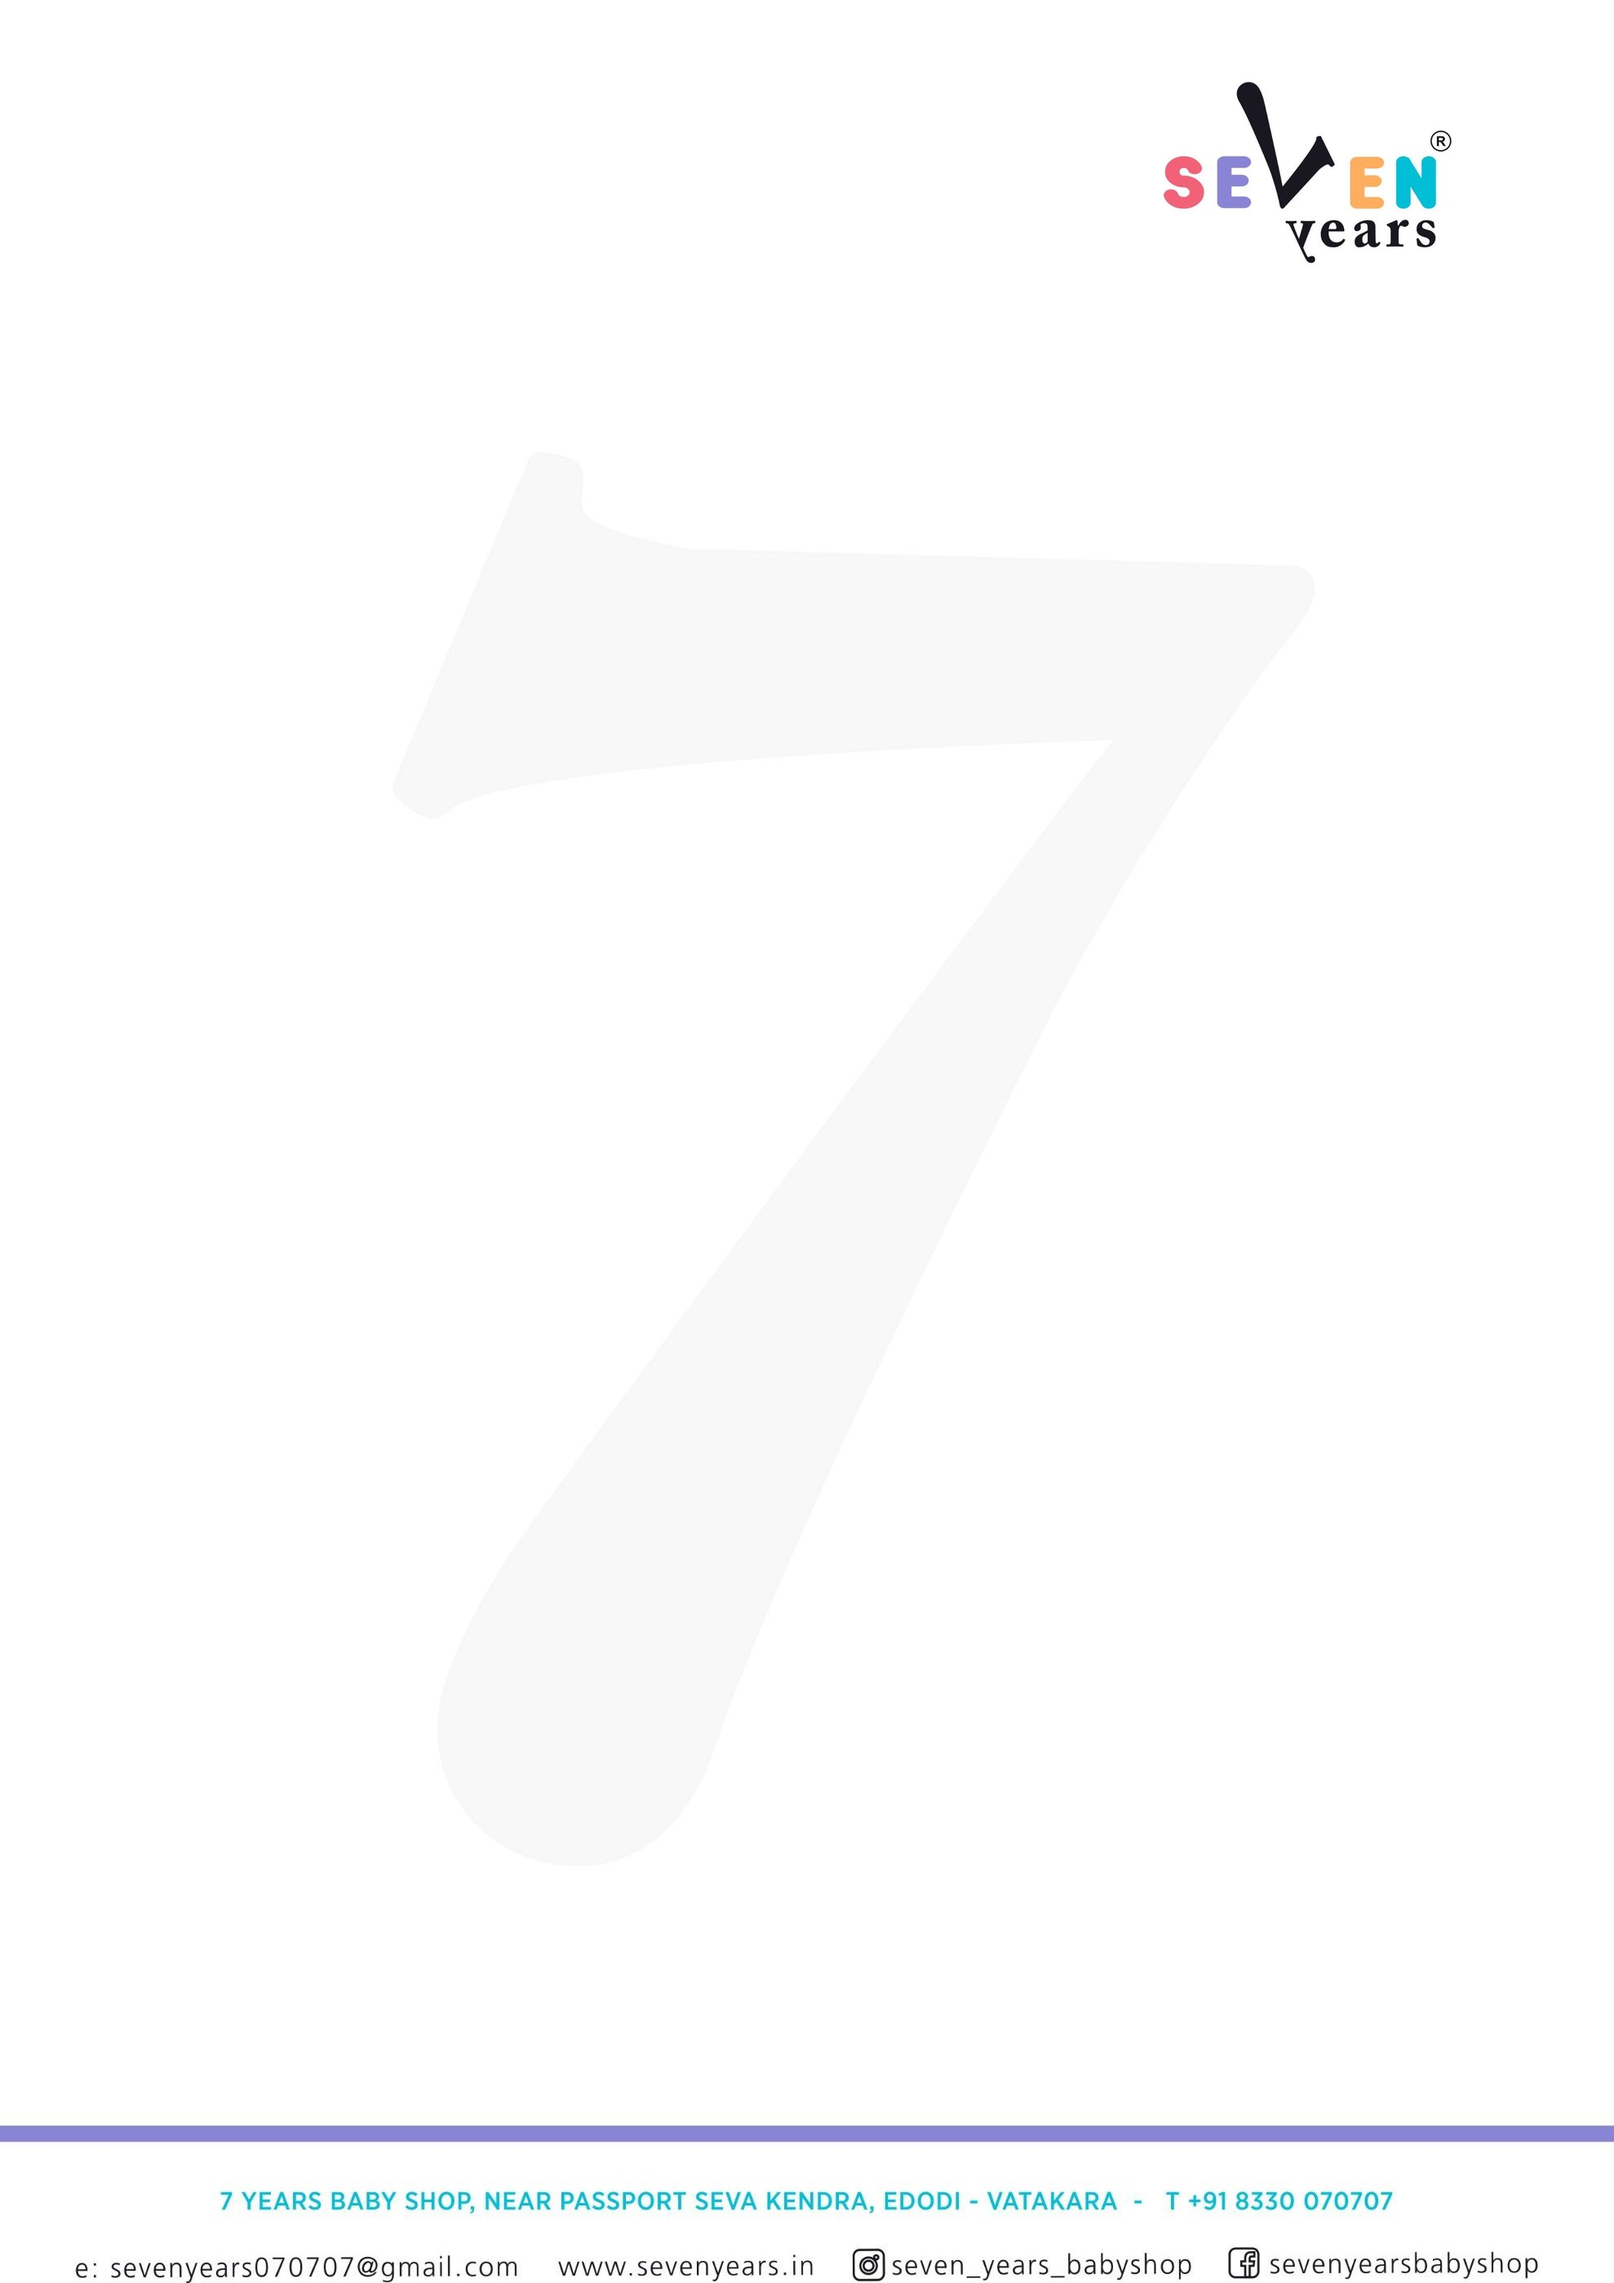
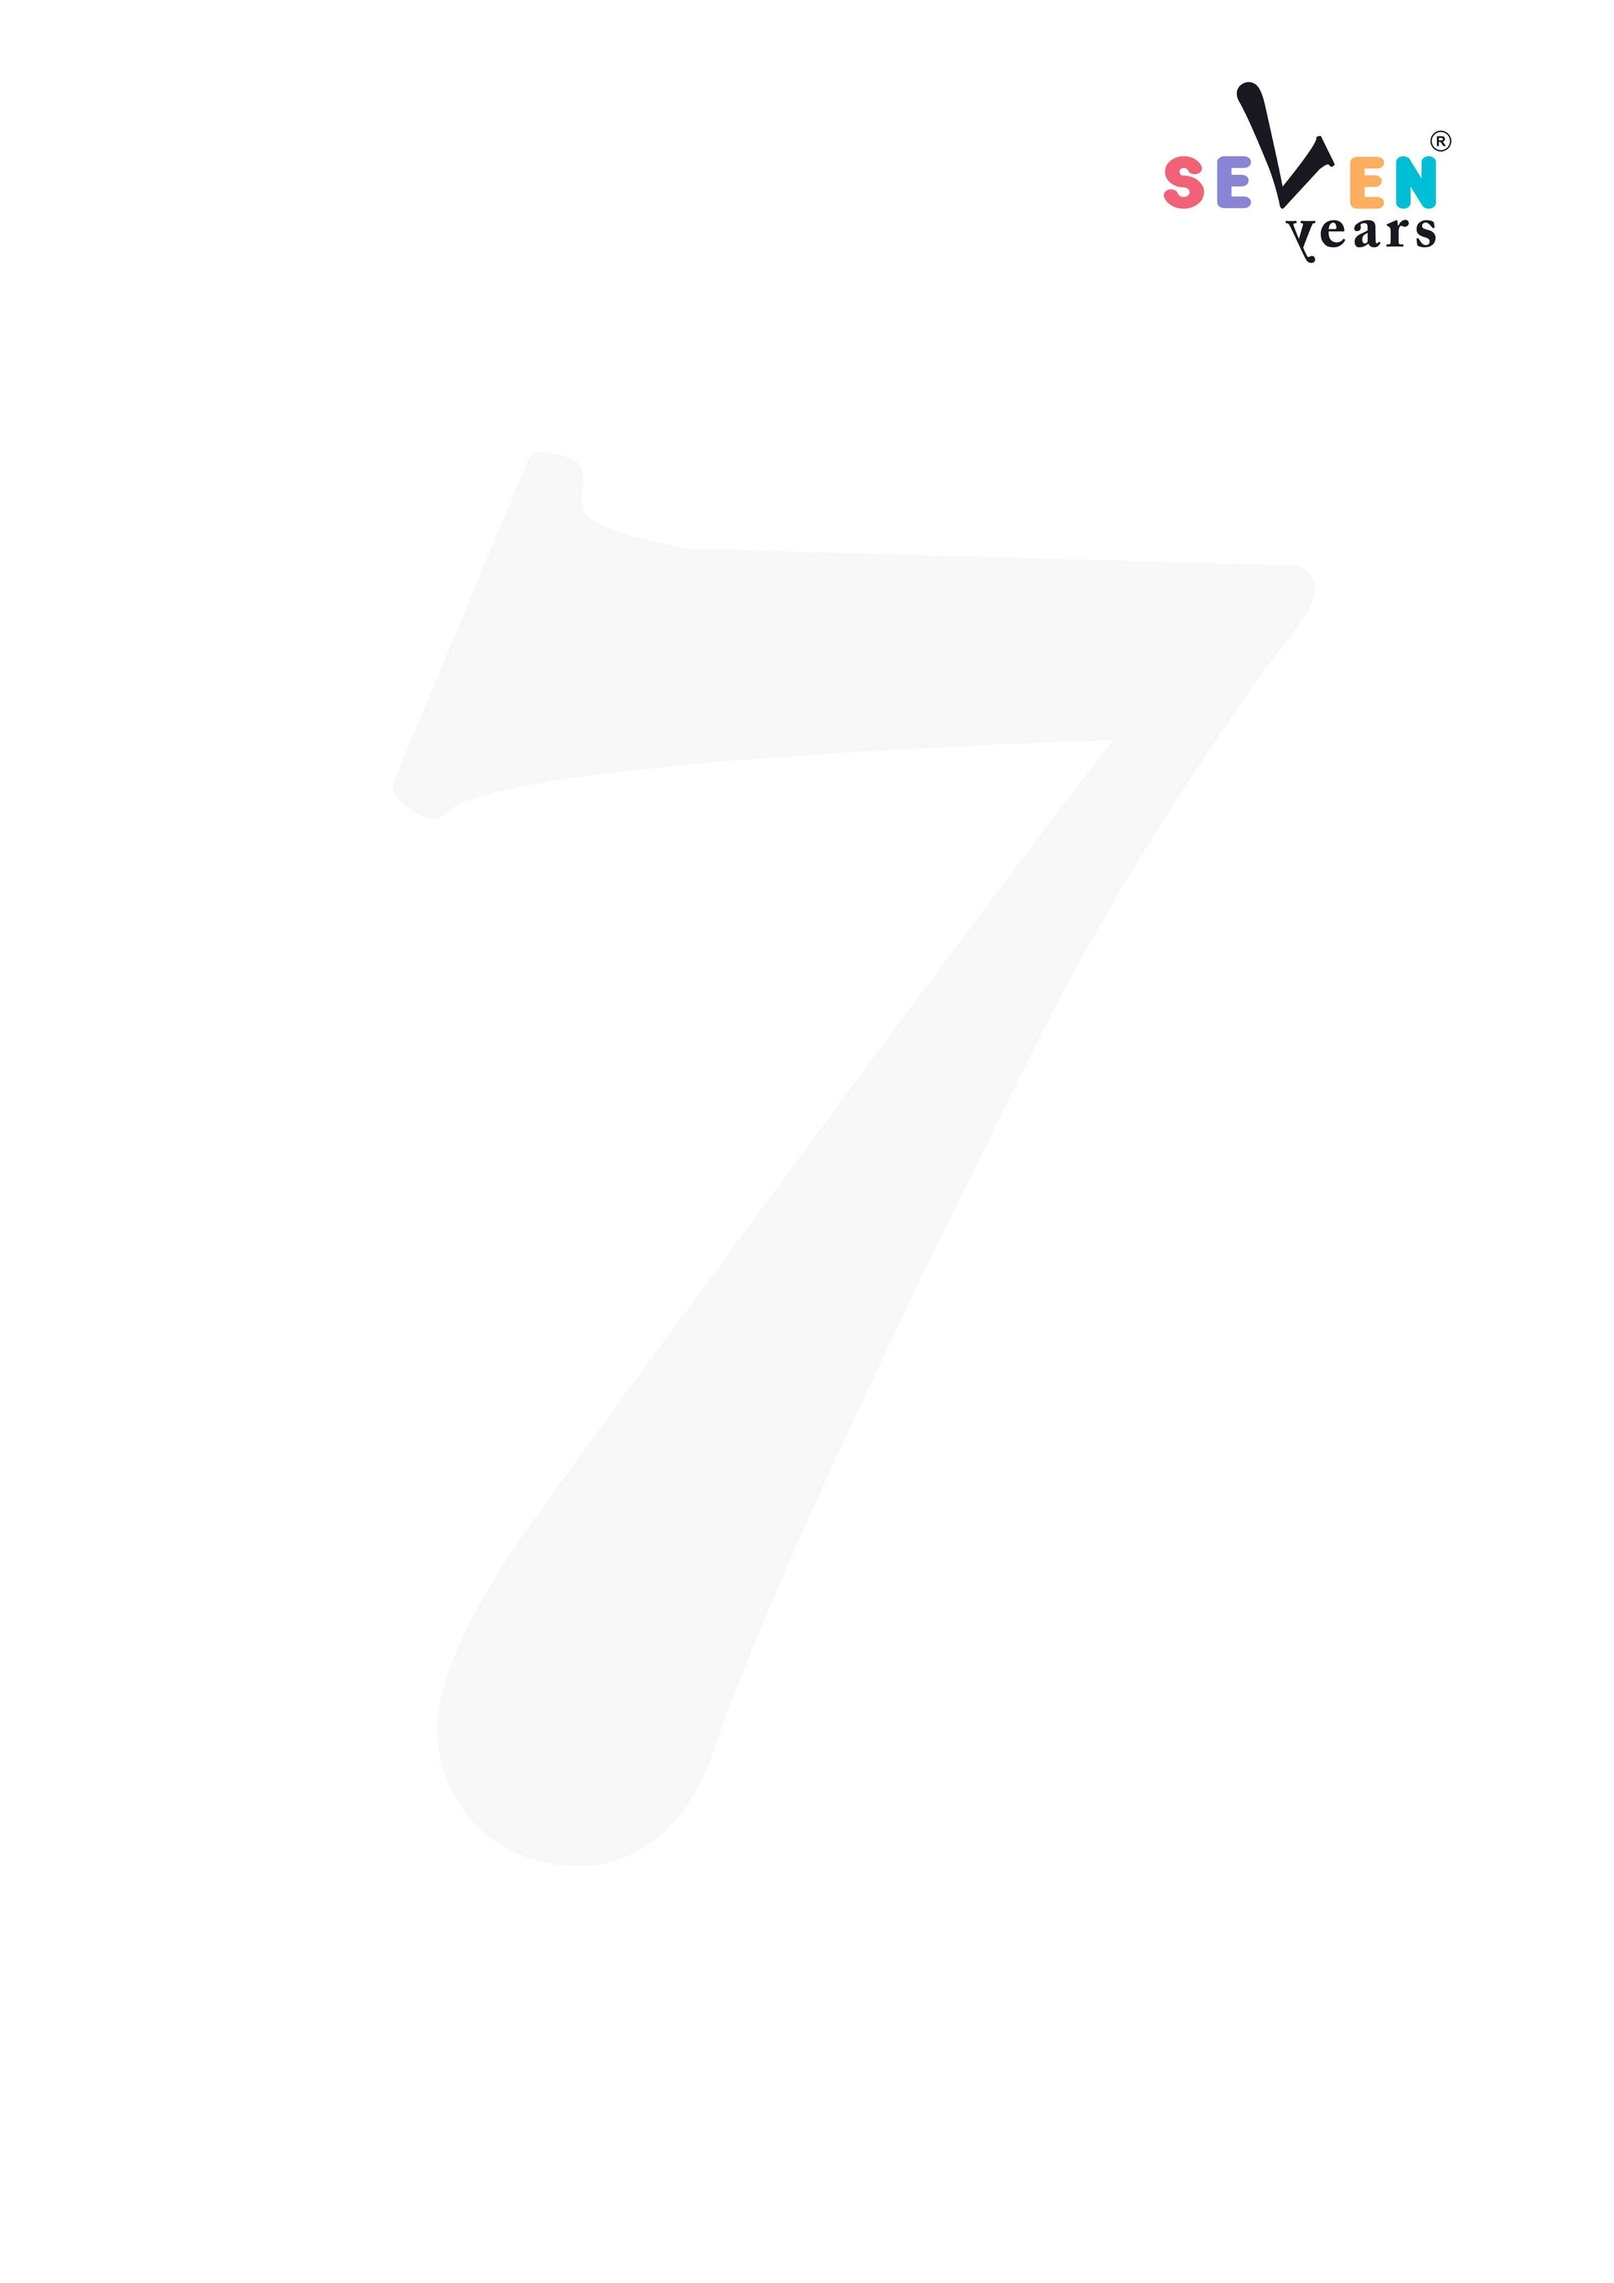
Warning letters: new footer with Seven Years Kids Care LLP; sign-off in the LLP's name
The footer is drawn as text (purple line, company name and address,
contacts) instead of the old letterhead picture, which named "7 Years Baby
Shop" and was cut off on A4. Letters are signed "For Seven Years Kids Care LLP,".

Claude-Session: https://claude.ai/code/session_01RyJxUemfb4mcSSv5YTcgxH

Changed region(s): [[0.0, 0.9331, 1.0, 1.0]]

diff --git a/lib/warning-letter-pdf.ts b/lib/warning-letter-pdf.ts
@@ -1,13 +1,22 @@
 // Warning letter PDF on the Seven Years letterhead, A4 (595 × 842 pt). Server only.
-// public/letterhead-a4.jpg is the letterhead laid out on A4: the header at the top, the footer at
-// the bottom and the watermark centred (made from public/letterhead.jpg without stretching). The
-// text sits between the logo and the purple line, and runs onto more pages if needed.
+// public/letterhead-a4.jpg is the letterhead laid out on A4 (logo and watermark, made from
+// public/letterhead.jpg without stretching); the footer (company name, address, contacts) is drawn
+// here as text so it stays sharp and easy to change. The letter text sits between the logo and the
+// purple line, and runs onto more pages if needed.
 
 import { readFile } from "node:fs/promises";
 import path from "node:path";
 import { degrees, PDFDocument, rgb, StandardFonts, type PDFFont, type PDFImage, type PDFPage } from "pdf-lib";
 import { embedPoppins } from "@/lib/pdf-fonts";
 import { formatDate } from "@/lib/helpers";
+
+/** Footer on every page of the letter. */
+const FOOTER = {
+  line1: "SEVEN YEARS KIDS CARE LLP  ·  Near Passport Seva Kendra, Edodi, Vatakara  ·  T +91 8330 070707",
+  line2: "sevenyears070707@gmail.com   ·   www.sevenyears.in   ·   Instagram: seven_years_babyshop   ·   Facebook: sevenyearsbabyshop",
+};
+const FOOTER_PURPLE = rgb(137 / 255, 133 / 255, 210 / 255);
+const FOOTER_TEAL = rgb(40 / 255, 176 / 255, 192 / 255);
 
 export type LetterPdfData = {
   number: string | null;
@@ -35,7 +44,7 @@ const H = 841.89;
 const LEFT = 60;
 const RIGHT = W - 60;
 const TOP = H - 118; // below the logo
-const BOTTOM = 80; // above the purple line
+const BOTTOM = 72; // above the purple line (drawn at 50–55 pt)
 const DARK = rgb(0.086, 0.086, 0.086);
 const GREY = rgb(0.42, 0.42, 0.42);
 const PINK = rgb(0.937, 0.373, 0.475);
@@ -226,7 +235,7 @@ export async function buildWarningLetterPdf(d: LetterPdfData): Promise<Uint8Arra
   // Signature
   y -= 16;
   ensure(70);
-  text("For Seven Years,", { size: 10.5 });
+  text("For Seven Years Kids Care LLP,", { size: 10.5 });
   let sigImg: PDFImage | null = null;
   if (d.signature) {
     try {
@@ -270,6 +279,19 @@ export async function buildWarningLetterPdf(d: LetterPdfData): Promise<Uint8Arra
     y -= 12;
   }
   text(sigImg ? "This letter was issued through the Seven Years Care app." : "This letter was issued through the Seven Years Care app and is valid without a signature.", { size: 8, color: GREY });
+
+  // Footer on every page: purple line, company name and address, contacts (shrunk to fit).
+  for (const pg of pdf.getPages()) {
+    pg.drawRectangle({ x: 0, y: 50, width: W, height: 5, color: FOOTER_PURPLE });
+    const line = (t: string, font: PDFFont, size0: number, yy: number, color: ReturnType<typeof rgb>) => {
+      const txt = safe(t, font);
+      let size = size0;
+      while (size > 6 && font.widthOfTextAtSize(txt, size) > W - 60) size -= 0.25;
+      pg.drawText(txt, { x: (W - font.widthOfTextAtSize(txt, size)) / 2, y: yy, size, font, color });
+    };
+    line(FOOTER.line1, bold, 8.5, 34, FOOTER_TEAL);
+    line(FOOTER.line2, regular, 8, 20, GREY);
+  }
 
   // Revoked: a stamp across every page and a note at the end.
   if (d.revokedAt) {

diff --git a/components/WarningLetters.tsx b/components/WarningLetters.tsx
@@ -399,7 +399,7 @@ export function LetterActions({
   );
 }
 
-/** The issuer's own signature on letters (name and title under "For Seven Years,"). */
+/** The issuer's own signature on letters (name and title under "For Seven Years Kids Care LLP,"). */
 export function LetterSignature({ name: name0, title: title0, imageUrl }: { name: string; title: string; imageUrl: string | null }) {
   const router = useRouter();
   const [editing, setEditing] = useState(false);
@@ -453,7 +453,7 @@ export function LetterSignature({ name: name0, title: title0, imageUrl }: { name
           <p className="text-xs font-bold uppercase text-black/50">Your signature on letters</p>
           {!editing && (
             <p className="mt-1 text-sm">
-              For Seven Years,
+              For Seven Years Kids Care LLP,
               <br />
               {imageUrl && (
                 // eslint-disable-next-line @next/next/no-img-element

diff --git a/lib/warning-letters.ts b/lib/warning-letters.ts
@@ -449,7 +449,7 @@ export async function createLetter(
   if (subject.length < 4) throw new Error("Write the subject of the letter.");
   if (body.length < 20) throw new Error("Write the letter.");
   if (/\[(dates?|details|date, place|achieved)/i.test(body)) throw new Error("Replace the [ ... ] parts of the letter with the real details first.");
-  // Name and title printed under "For Seven Years," (Settings on the Warning letters page).
+  // Name and title printed under "For Seven Years Kids Care LLP," (Settings on the Warning letters page).
   const sig = await signatureFor(me);
   const { data, error } = await supabaseAdmin
     .from("warning_letters")

diff --git a/app/api/staff/letters/signature/route.ts b/app/api/staff/letters/signature/route.ts
@@ -2,7 +2,7 @@ import { NextResponse } from "next/server";
 import { requireStaff } from "@/lib/auth";
 import { canWriteLetters, setSignature, setSignatureImage, signatureFor } from "@/lib/warning-letters";
 
-// The name and title printed under "For Seven Years," on the letters this person issues.
+// The name and title printed under "For Seven Years Kids Care LLP," on the letters this person issues.
 export async function GET() {
   const auth = await requireStaff();
   if (auth.response) return auth.response;

diff --git a/app/staff/(portal)/letters/[id]/page.tsx b/app/staff/(portal)/letters/[id]/page.tsx
@@ -93,7 +93,7 @@ export default async function WarningLetterPage({ params }: { params: Promise<{ 
           )}
         </div>
         <div className="mt-8 text-sm">
-          <p>For Seven Years,</p>
+          <p>For Seven Years Kids Care LLP,</p>
           {sigUrl ? (
             // eslint-disable-next-line @next/next/no-img-element
             <img src={sigUrl} alt="Signature" className="my-1 h-14 w-auto" />
